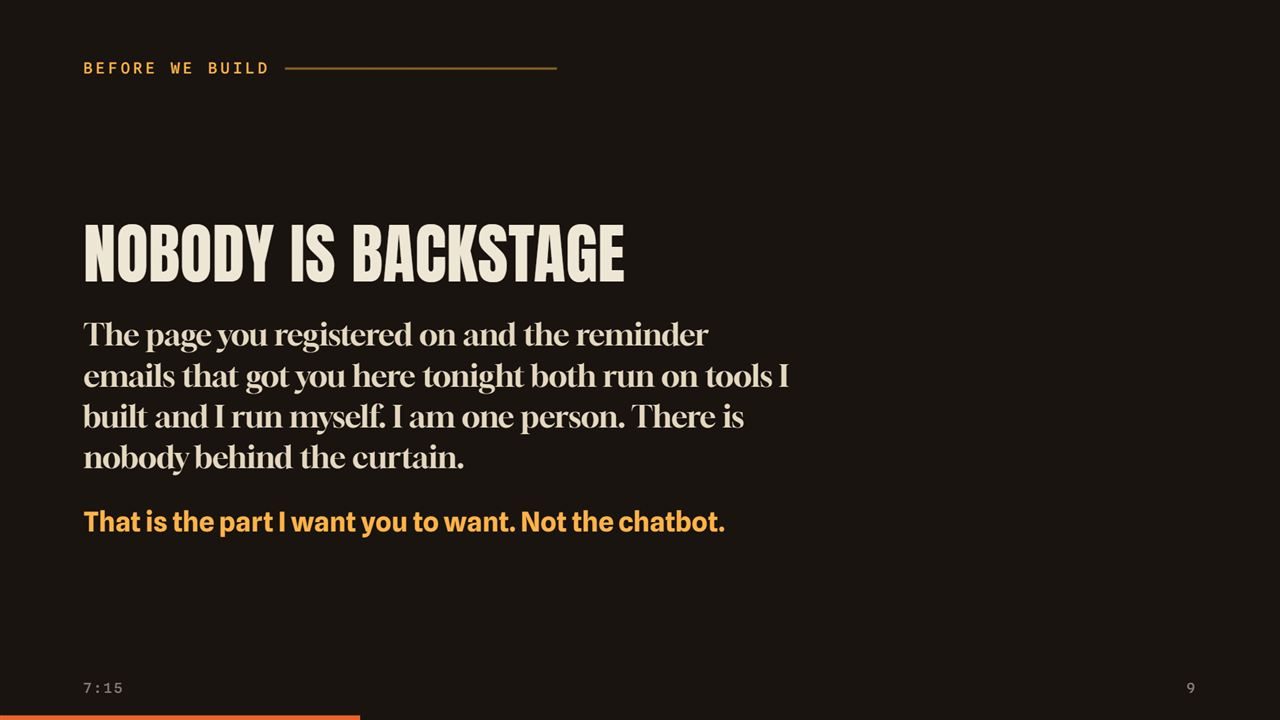
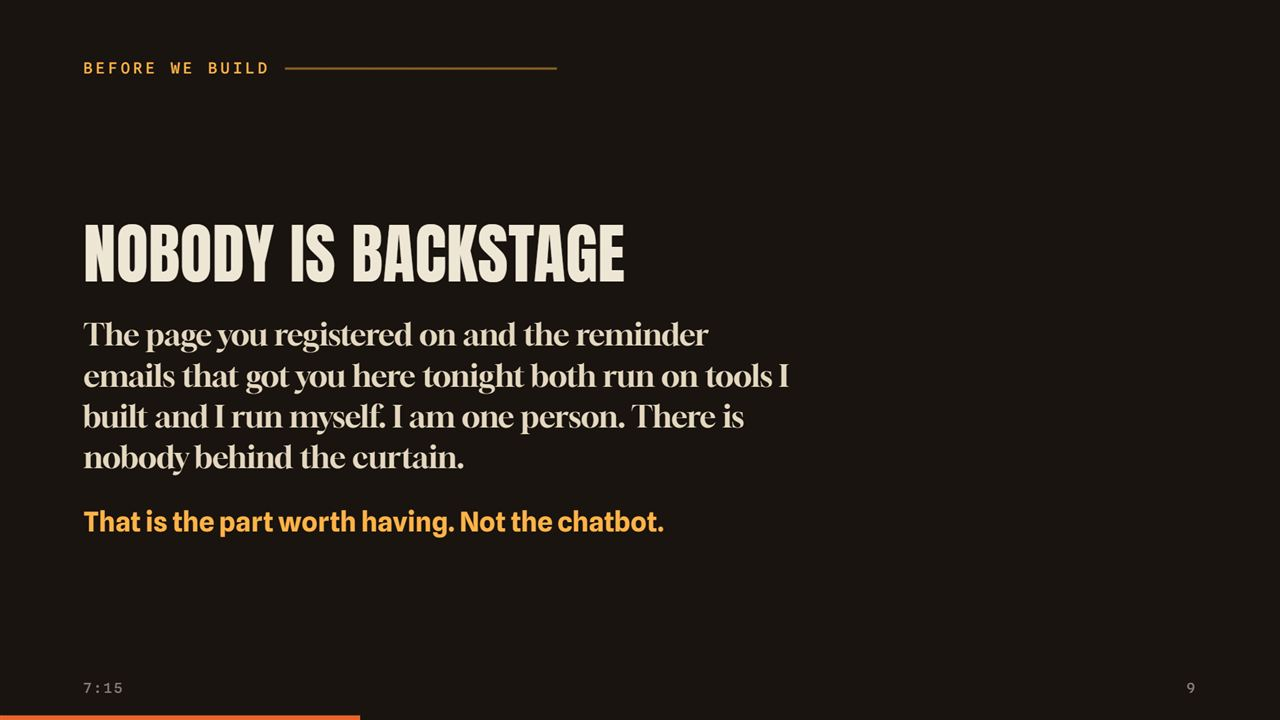
review(workshop-deck): strip speaker-facing copy from slides 9 and 31
Boubacar 7/28: everything on the slides is for the clients, not for him.
Slide 31 loses "I would take one of those over any ad I could buy" (his ad
economics). Slide 9 changes "the part I want you to want" to "the part
worth having" (subject was his intent, not their benefit).
Stills for both slides re-rendered from the updated deck.

Changed region(s): [[0.2188, 0.7028, 0.5625, 0.7639]]

diff --git a/review/20260730-workshop-deck-full/index.html b/review/20260730-workshop-deck-full/index.html
@@ -211,7 +211,7 @@ pre b{color:var(--molten);font-weight:500}
 :fullscreen #deploy-stamp,:-webkit-full-screen #deploy-stamp{display:none!important}
 @media print{#deploy-stamp{display:none!important}}</style></head>
 <body>
-<!-- DEPLOY_STAMP_START --><div id="deploy-stamp" style="position:fixed;top:8px;right:10px;z-index:99999;font-family:ui-monospace,'SF Mono',SFMono-Regular,Menlo,Consolas,monospace;font-size:11px;line-height:1;color:rgba(165,151,131,0.78);background:rgba(20,18,16,0.72);border:1px solid rgba(236,226,210,0.14);border-radius:6px;padding:4px 8px;letter-spacing:0.02em;backdrop-filter:blur(4px);-webkit-backdrop-filter:blur(4px);pointer-events:none;user-select:none;white-space:nowrap;">v1 · 2026-07-28-08:38:56 MT</div><!-- DEPLOY_STAMP_END -->
+<!-- DEPLOY_STAMP_START --><div id="deploy-stamp" style="position:fixed;top:8px;right:10px;z-index:99999;font-family:ui-monospace,'SF Mono',SFMono-Regular,Menlo,Consolas,monospace;font-size:11px;line-height:1;color:rgba(165,151,131,0.78);background:rgba(20,18,16,0.72);border:1px solid rgba(236,226,210,0.14);border-radius:6px;padding:4px 8px;letter-spacing:0.02em;backdrop-filter:blur(4px);-webkit-backdrop-filter:blur(4px);pointer-events:none;user-select:none;white-space:nowrap;">v2 · 2026-07-28-09:30:19 MT</div><!-- DEPLOY_STAMP_END -->
 
 <div id="deck"><div class="stage" id="stage">
 
@@ -355,7 +355,7 @@ pre b{color:var(--molten);font-weight:500}
   <div class="mid">
     <h1 style="margin-bottom:38px">NOBODY IS BACKSTAGE</h1>
     <p class="lead" style="max-width:36ch;margin-bottom:30px">The page you registered on and the reminder emails that got you here tonight both run on tools I built and I run myself. I am one person. There is nobody behind the curtain.</p>
-    <p class="body wide" style="font-size:34px"><b class="hot">That is the part I want you to want. Not the chatbot.</b></p>
+    <p class="body wide" style="font-size:34px"><b class="hot">That is the part worth having. Not the chatbot.</b></p>
   </div>
   <div class="foot"><span>7:15</span><span>9</span></div>
 </section>
@@ -661,7 +661,7 @@ My decision is: [paste your decision here]</pre>
   <div class="mid">
     <h1 style="margin-bottom:36px">THINK OF ONE OWNER</h1>
     <p class="body wide" style="margin-bottom:28px">One person who should have been in this room tonight. Not a list. One.</p>
-    <p class="lead" style="font-size:40px">Send them the next date. That is how the next room fills. I would take one of those over any ad I could buy.</p>
+    <p class="lead" style="font-size:40px">Send them the next date. That is how the next room fills.</p>
   </div>
   <div class="foot"><span>8:26</span><span>31</span></div>
 </section>
